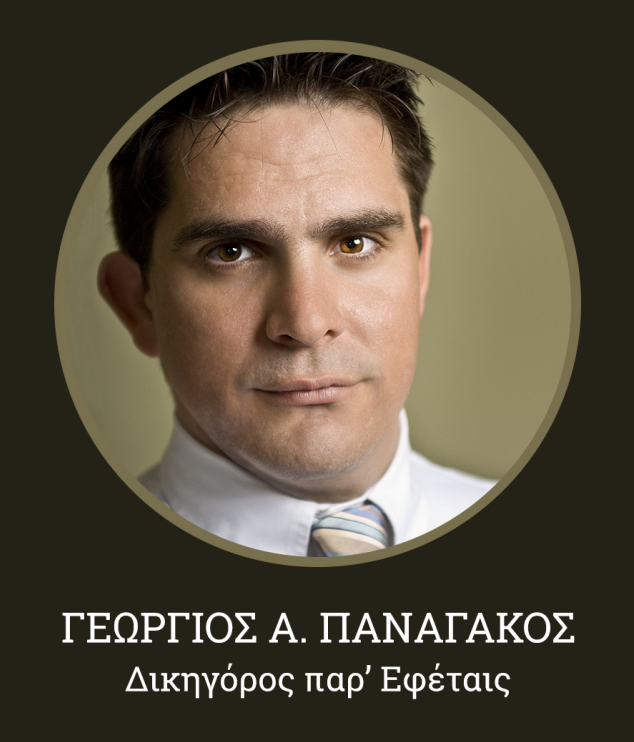
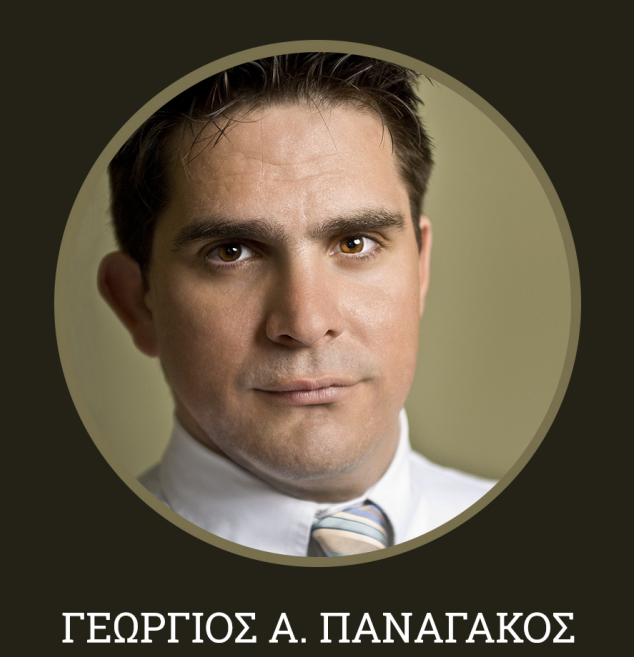
Updates

diff --git a/next-app/src/app/_pages/AboutPage.jsx b/next-app/src/app/_pages/AboutPage.jsx
@@ -136,7 +136,7 @@ export default function AboutPage() {
           role: "Μεταπτυχιακό Δίπλωμα Ειδίκευσης",
           org:
             "Τμήμα Κοινωνικής και Εκπαιδευτικής Πολιτικής, Πανεπιστήμιο Πελοποννήσου",
-          dates: "2000 – 2001",
+          dates: "2013 – 2016",
           bullets: [
             "Εκπόνηση Μεταπτυχιακής Διπλωματικής Διατριβής με θέμα: «Το ιατρικό λάθος στην παθητική ευθανασία των ανηλίκων και ενηλίκων ασθενών».",
             "Δημοσιευμένη στο διαδίκτυο — URL: http://195.251.38.253:8080/xmlui/handle/123456789/2769",
@@ -146,14 +146,14 @@ export default function AboutPage() {
         {
           role: "Πτυχίο Τμήματος Νομικής",
           org: "Δημοκρίτειο Πανεπιστήμιο Θράκης",
-          dates: "10/2013 – 12/2016",
+          dates: "2007 – 2012",
           bullets: [],
         },
         {
           role:
             "Πτυχίο Τμήματος Πολιτικής Επιστήμης και Δημόσιας Διοίκησης",
           org: "Εθνικό και Καποδιστριακό Πανεπιστήμιο Αθηνών",
-          dates: "10/1999 – 09/2005",
+          dates: "1999 – 2005",
           bullets: [],
         },
       ],
@@ -306,7 +306,7 @@ export default function AboutPage() {
           role:
             "Master of Arts, Department of Social and Educational Policy",
           org: "University of Peloponnisos",
-          dates: "10/2013 – 12/2016",
+          dates: "2013 – 2016",
           bullets: [
             'Paper topic: "The medical error in passive euthanasia of minor and adult patients"',
             "URL: http://195.251.38.253:8080/xmlui/handle/123456789/2769",
@@ -316,13 +316,13 @@ export default function AboutPage() {
         {
           role: "Law School, Undergraduate Program",
           org: "Democritus University of Thrace (DUTH)",
-          dates: "10/2007 – 07/2012",
+          dates: "2007 – 2012",
           bullets: [],
         },
         {
           role: "Bachelor in Political Science and Public Administration",
           org: "National and Kapodistrian University of Athens (EKPA)",
-          dates: "10/1999 – 09/2005",
+          dates: "1999 – 2005",
           bullets: [],
         },
       ],
@@ -476,31 +476,16 @@ export default function AboutPage() {
             ? [
               "My name is <strong>Theodoros S. Aggelopoulos</strong> and I am an attorney with extensive experience in <em>Civil</em>, <em>Commercial</em> and <em>Banking Law</em>, with particular specialization in the management of <em>Non-Performing Loans (NPLs)</em>. Since 2011, I have been actively practicing litigation, providing reliable legal guidance, court representation and comprehensive solutions to individuals, businesses and financial institutions.",
               "Since 2023, I serve as <strong>Head of Legal Department</strong> at a major servicer, while also collaborating with the <strong>National Bank of Greece</strong> in enforcement matters. My long-standing involvement in NPLs has led to advanced expertise in <em>enforcement proceedings</em>, <em>auctions</em>, <em>seizures</em> and complex judicial disputes.",
-              "As founder of <strong>Angelopoulos & Partners Law Office</strong>, I provide a full range of legal services focused on practical, well-documented and client-oriented solutions, with consistency, transparency and continuous communication at every stage.",
+              "As the owner of <strong>Angelopoulos & Partners Law Office</strong>, I offer a comprehensive range of legal services covering:",
+              `<ul class="list-disc pl-6 space-y-2 my-1 text-[#2F3E46]"><li>Civil, Commercial & Banking Law</li><li>Family and Cadastral Law</li><li>Contract Law and Agreements</li><li>Court Representation and Legal Advisory</li><li>Negotiation, drafting and amendment of contracts</li></ul>`,
+              "My central goal is to provide reliable, practical and fully substantiated legal solutions, with consistency, transparency and respect for each client's needs. I believe in continuous communication, a methodical approach and building relationships of trust, which are the foundation for effective legal cooperation.",
             ]
             : [
               "Ονομάζομαι <strong>Θοδωρής Σ. Αγγελόπουλος</strong> και είμαι δικηγόρος με πολυετή εμπειρία στο <em>Αστικό</em>, <em>Εμπορικό</em> και <em>Τραπεζικό Δίκαιο</em>, με εξειδίκευση στη διαχείριση <em>NPLs (Non-Performing Loans)</em>. Από το 2011 ασκώ ενεργά μάχιμη δικηγορία, παρέχοντας έγκυρη νομική καθοδήγηση, δικαστική εκπροσώπηση και ολοκληρωμένες λύσεις σε ιδιώτες, επιχειρήσεις και χρηματοπιστωτικούς οργανισμούς.",
               "Από το 2023 κατέχω τη θέση του <strong>Διευθυντή Νομικού Τμήματος</strong> σε μεγάλο servicer, ενώ παράλληλα συνεργάζομαι με την <strong>Εθνική Τράπεζα της Ελλάδος</strong>, αναλαμβάνοντας υποθέσεις αναγκαστικής εκτέλεσης. Η πολυετής ενασχόλησή μου με τα NPLs μου έχει προσφέρει ιδιαίτερη εξειδίκευση σε ζητήματα <em>αναγκαστικής εκτέλεσης</em>, <em>πλειστηριασμών</em>, <em>κατασχέσεων</em> και σύνθετων δικαστικών διενέξεων.",
-              "Ως ιδιοκτήτης του <strong>Angelopoulos & Partners Law Office</strong>, παρέχω ένα ολοκληρωμένο φάσμα νομικών υπηρεσιών με έμφαση σε αξιόπιστες, πρακτικές και τεκμηριωμένες λύσεις, με συνέπεια, διαφάνεια και συνεχή επικοινωνία με κάθε πελάτη.",
-            ]
-        }
-        ticks={
-          isEn
-            ? [
-              "Civil, Commercial & Banking Law",
-              "Specialization in NPL management",
-              "Enforcement proceedings, auctions & seizures",
-              "Head of Legal Department in major servicer (since 2023)",
-              "Collaboration with National Bank of Greece",
-              "Litigation, legal advisory and contract practice",
-            ]
-            : [
-              "Αστικό, Εμπορικό & Τραπεζικό Δίκαιο",
-              "Εξειδίκευση στη διαχείριση NPLs",
-              "Αναγκαστική εκτέλεση, πλειστηριασμοί & κατασχέσεις",
-              "Διευθυντής Νομικού Τμήματος σε μεγάλο servicer (από το 2023)",
-              "Συνεργασία με την Εθνική Τράπεζα της Ελλάδος",
-              "Δικαστηριακή εκπροσώπηση, συμβουλευτική και συμβάσεις",
+              "Ως ιδιοκτήτης του <strong>Angelopoulos & Partners Law Office</strong>, προσφέρω ένα ολοκληρωμένο φάσμα νομικών υπηρεσιών που καλύπτουν:",
+              `<ul class="list-disc pl-6 space-y-2 my-1 text-[#2F3E46]"><li>Αστικό, Εμπορικό & Τραπεζικό Δίκαιο</li><li>Οικογενειακό και Κτηματολογικό Δίκαιο</li><li>Ενοχικό Δίκαιο και Συμβάσεις</li><li>Δικαστική Εκπροσώπηση και Νομική Συμβουλευτική</li><li>Διαπραγμάτευση, σύνταξη και τροποποίηση συμβάσεων</li></ul>`,
+              "Κεντρικός μου στόχος είναι η παροχή αξιόπιστων, πρακτικών και απολύτως τεκμηριωμένων νομικών λύσεων, με συνέπεια, διαφάνεια και σεβασμό στις ανάγκες κάθε πελάτη. Πιστεύω στη συνεχή επικοινωνία, στη μεθοδική προσέγγιση και στη δημιουργία σχέσεων εμπιστοσύνης, στοιχεία που αποτελούν θεμέλιο για μία αποτελεσματική νομική συνεργασία.",
             ]
         }
       />

diff --git a/next-app/src/app/lib/sendContactMail.js b/next-app/src/app/lib/sendContactMail.js
@@ -11,10 +11,7 @@ export async function sendContactMail({
 }) {
   return resend.emails.send({
     from: "AGPA Law Office Website <no-reply@agpa-law-firm.gr>",
-    to: [
-      "gsa.panagakos.law@gmail.com",
-      // "g.seretakos@gmail.com",
-    ],
+    to: ["gsa.panagakos.law@gmail.com",],
     replyTo: email,
     subject: "Website: Αίτημα Επικοινωνίας / Contact Request",
     html: `

diff --git a/next-app/src/app/components/AboutSection.jsx b/next-app/src/app/components/AboutSection.jsx
@@ -57,7 +57,7 @@ export default function AboutSection({
           {/* Description */}
           <div className="leading-relaxed space-y-4 text-[#2F3E46]">
             {description.map((item, i) => (
-              <p key={i} dangerouslySetInnerHTML={{ __html: item }} />
+              <div key={i} dangerouslySetInnerHTML={{ __html: item }} />
             ))}
           </div>
 
